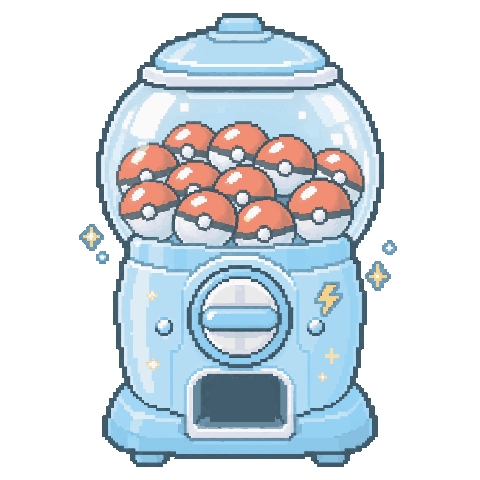
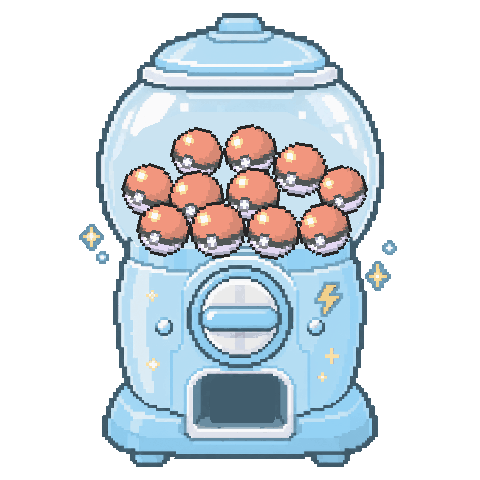
캡슐토이: 새 기계 그림(natural)으로 교체

Changed region(s): [[0.2188, 0.25, 0.7812, 0.5625], [0.4688, 0.875, 0.5312, 0.9062]]

diff --git a/src/components/main/GachaWidget.tsx b/src/components/main/GachaWidget.tsx
@@ -44,7 +44,7 @@ const PRIZES: Prize[] = [
 ];
 const MACHINE = '/deco/gacha/machine.png';
 const TURN_GIF = '/deco/gacha/machine-turn.gif';   // 한 번만 재생 — 다이얼이 돌고 볼이 오른쪽 아래로 굴러 나온다
-const TURN_MS = 4300;
+const TURN_MS = 4900;   // 다이얼(0.6~2.3초) → 볼 배출(2.5초) → 굴러 나가 사라짐(4.8초)
 const DEX_KEY = 'ohome.gacha.dex';
 
 /* 효과음 — 파일 없이 짧게 합성 */
@@ -104,10 +104,10 @@ export function GachaWidget() {
     const p = pick();
     setPrize(p);
     // 드르륵 — 다이얼 톱니, 볼이 떨어지고 굴러 나오는 소리
-    for (let i = 0; i < 8; i++) later(150 + i * 120, () => sfx(() => tone(900 + Math.random() * 300, 0.04, 'square', 0.05)));
-    later(1750, () => sfx(() => tone(260, 0.16, 'triangle', 0.25, 110)));
-    later(2500, () => sfx(() => tone(200, 0.12, 'triangle', 0.18, 90)));
-    later(3100, () => sfx(() => tone(180, 0.1, 'triangle', 0.12, 80)));
+    for (let i = 0; i < 13; i++) later(650 + i * 130, () => sfx(() => tone(900 + Math.random() * 300, 0.04, 'square', 0.05)));
+    later(2550, () => sfx(() => tone(260, 0.16, 'triangle', 0.25, 110)));
+    later(3050, () => sfx(() => tone(200, 0.12, 'triangle', 0.18, 90)));
+    later(3550, () => sfx(() => tone(180, 0.1, 'triangle', 0.12, 80)));
     later(TURN_MS, () => open(p));
   };
 
